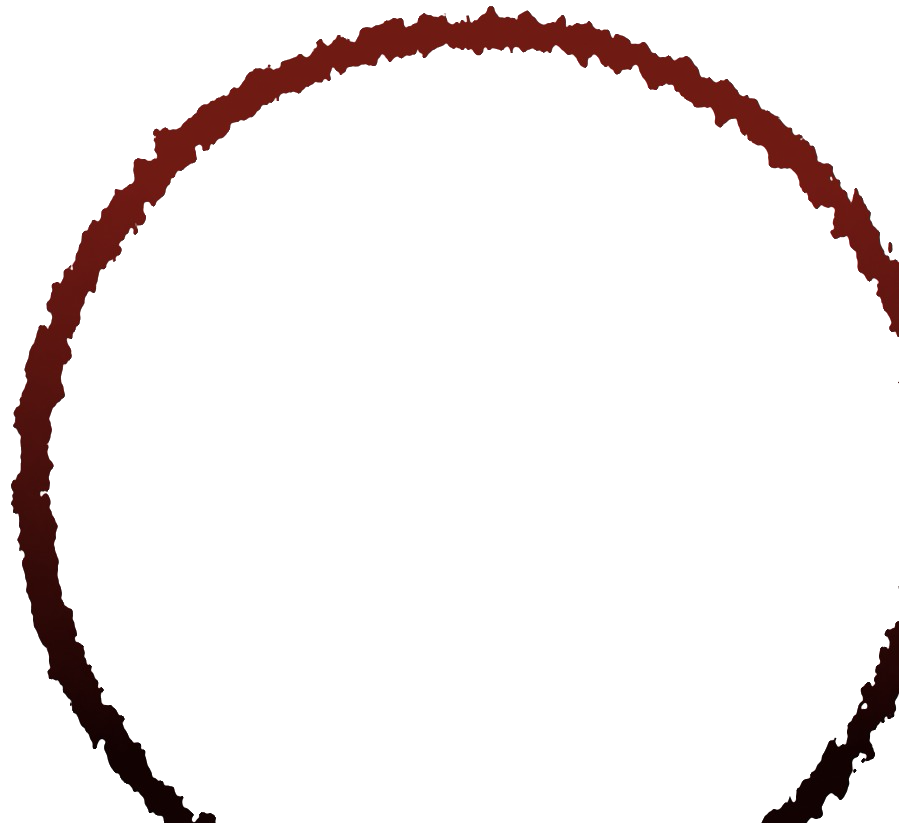
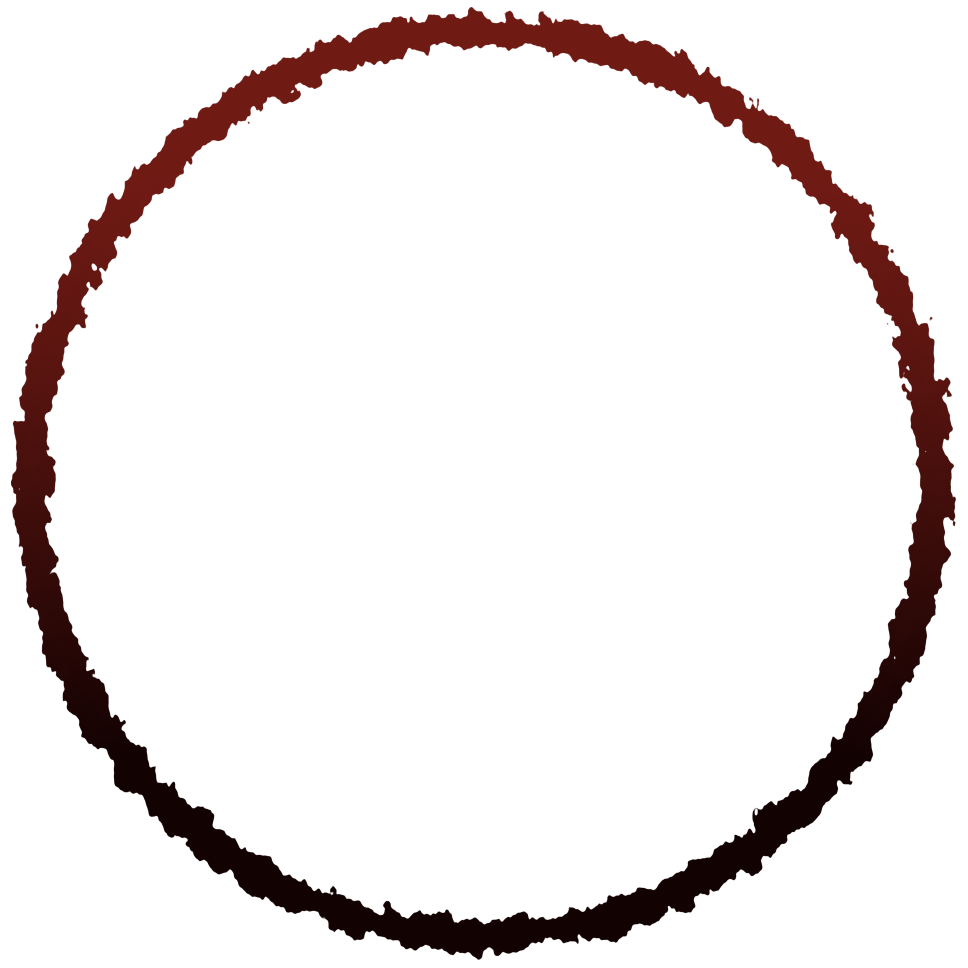
UI Tweaks: Fixed character name sizes, adjusted hero padding, and lowered smoke strip

Changed region(s): [[0.0, 0.0, 1.0, 1.0], [0.8409, 0.729, 1.0, 1.0]]

diff --git a/components/sections/Hero.tsx b/components/sections/Hero.tsx
@@ -104,7 +104,7 @@ export default function Hero() {
             <div className="relative z-10 flex min-h-[calc(100vh-120px)] lg:min-h-0 lg:flex-1">
 
                 {/* Left Column: Nav + Character Identity */}
-                <div className="page-x relative z-20 flex flex-col justify-between pt-16 md:pt-[clamp(10px,2.2svh,48px)] pb-20 md:pb-[clamp(48px,8svh,88px)] w-full lg:w-1/2">
+                <div className="page-x relative z-20 flex flex-col justify-between pt-28 md:pt-[clamp(60px,8svh,100px)] pb-20 md:pb-[clamp(48px,8svh,88px)] w-full lg:w-1/2">
 
                     {/* Section Nav List */}
                     <nav className="flex flex-col gap-4 md:gap-[clamp(8px,1.7svh,20px)]">
@@ -144,10 +144,10 @@ export default function Hero() {
                            <img
                             src={active.nameImage}
                             alt={active.name}
-                            className="w-[280px] md:w-[370px] h-[120px] md:h-[160px] object-contain object-left"
+                            className="h-[70px] md:h-[110px] w-auto max-w-full object-contain object-left"
                              />
                            ) : (
-                           <span className="block w-[280px] md:w-[370px] h-[120px] md:h-[160px] flex items-center justify-start text-[inherit]">
+                           <span className="block h-[70px] md:h-[110px] w-auto max-w-full flex items-center justify-start text-[inherit]">
                             {active.name}
                            </span>
                            )}
@@ -171,14 +171,9 @@ export default function Hero() {
 
                 {/* Right Column: Character Art */}
                 <div className="absolute inset-y-0 right-0 w-full lg:w-[58%] pointer-events-none">
-                    {/* Grunge ring — two copies rotated 180° apart to fill gaps in the brush stroke */}
-                    <div className="absolute top-[50%] left-[50%] -translate-x-1/2 -translate-y-[48%] w-[85%] h-auto animate-[spin_20s_linear_infinite]">
-                        <img src={active.ring} alt="" aria-hidden className="w-full h-auto" />
-                    </div>
-                    <div className="absolute top-[50%] left-[50%] -translate-x-1/2 -translate-y-[48%] w-[85%] h-auto" style={{ transform: "translate(-50%, -48%) rotate(180deg)" }}>
-                        <div className="w-full h-auto animate-[spin_20s_linear_infinite]">
-                            <img src={active.ring} alt="" aria-hidden className="w-full h-auto" />
-                        </div>
+                    {/* Grunge ring behind the character */}
+                    <div className="absolute top-[50%] left-[50%] -translate-x-1/2 -translate-y-[48%] w-[85%] aspect-square animate-[spin_20s_linear_infinite]">
+                        <img src={active.ring} alt="" aria-hidden className="w-full h-full object-contain" />
                     </div>
 
                     {/* Character artwork */}
@@ -224,7 +219,7 @@ export default function Hero() {
             {/* Smoke transition straddling the hero/Seika boundary: pinned to the
                 bottom edge with ~35% of the art dipping below it (clipped here,
                 completed by the matching strip at the top of Seika). */}
-            <SmokeStrip className="absolute bottom-0 left-0 z-20 w-full translate-y-[50%]" />
+            <SmokeStrip className="absolute bottom-0 left-0 z-20 w-full translate-y-[85%]" />
 
             {/* Custom Wallet Modal */}
             <CustomWalletModal isOpen={isCustomModalOpen} onClose={closeCustomModal} />

diff --git a/components/sections/Seika.tsx b/components/sections/Seika.tsx
@@ -58,7 +58,7 @@ import SmokeStrip from "../ui/SmokeStrip";
 // }
 export default function Seika() {
     return (
-        <section id="seika" className="screen-section relative overflow-hidden bg-black pt-12 pb-8 md:pt-16 md:pb-10">
+        <section id="seika" className="screen-section relative overflow-hidden bg-black pt-32 pb-8 md:pt-40 md:pb-10">
 
             <SmokeStrip className="hidden lg:block absolute top-0 left-0 z-0 w-full -translate-y-[50%]" />
 
